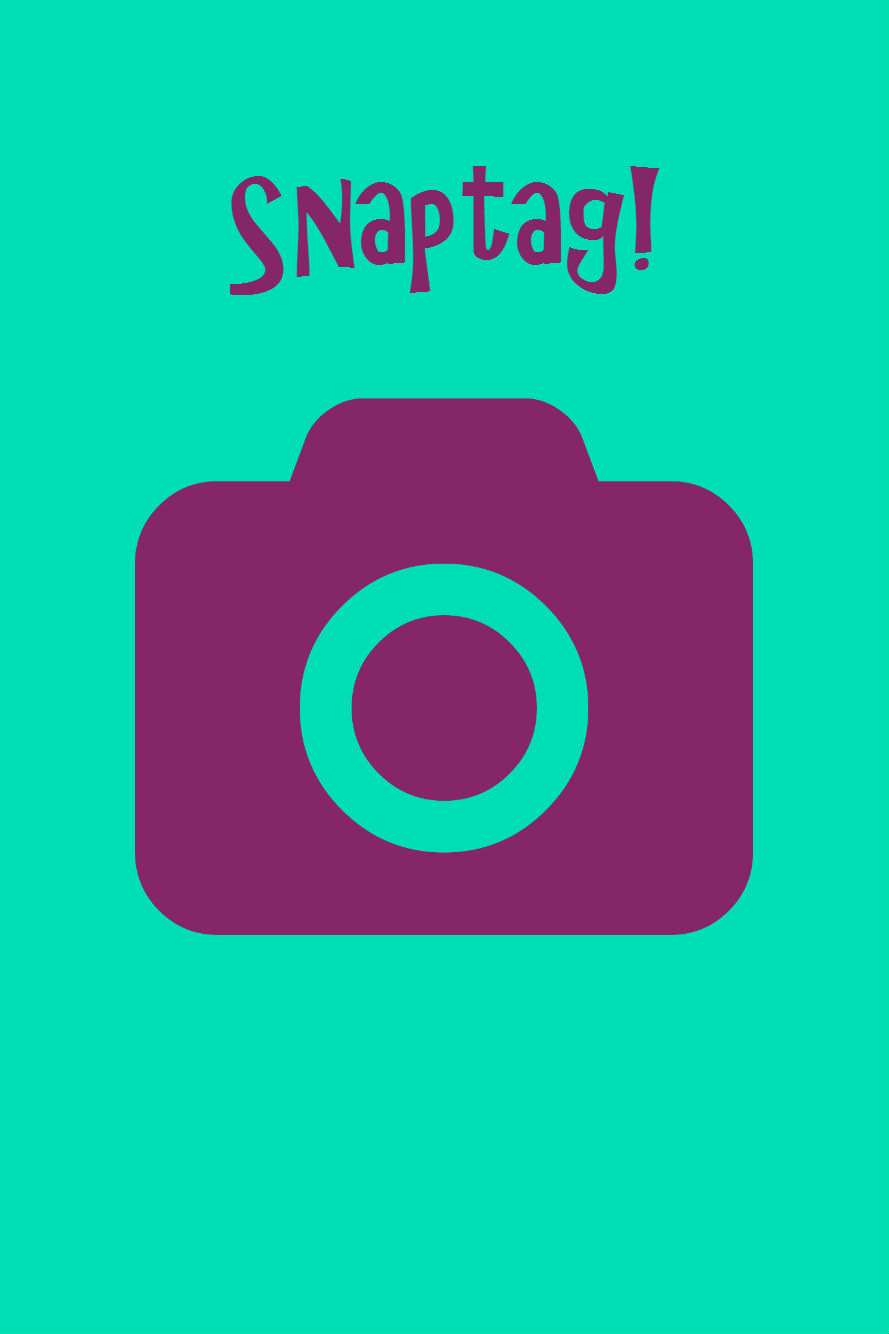
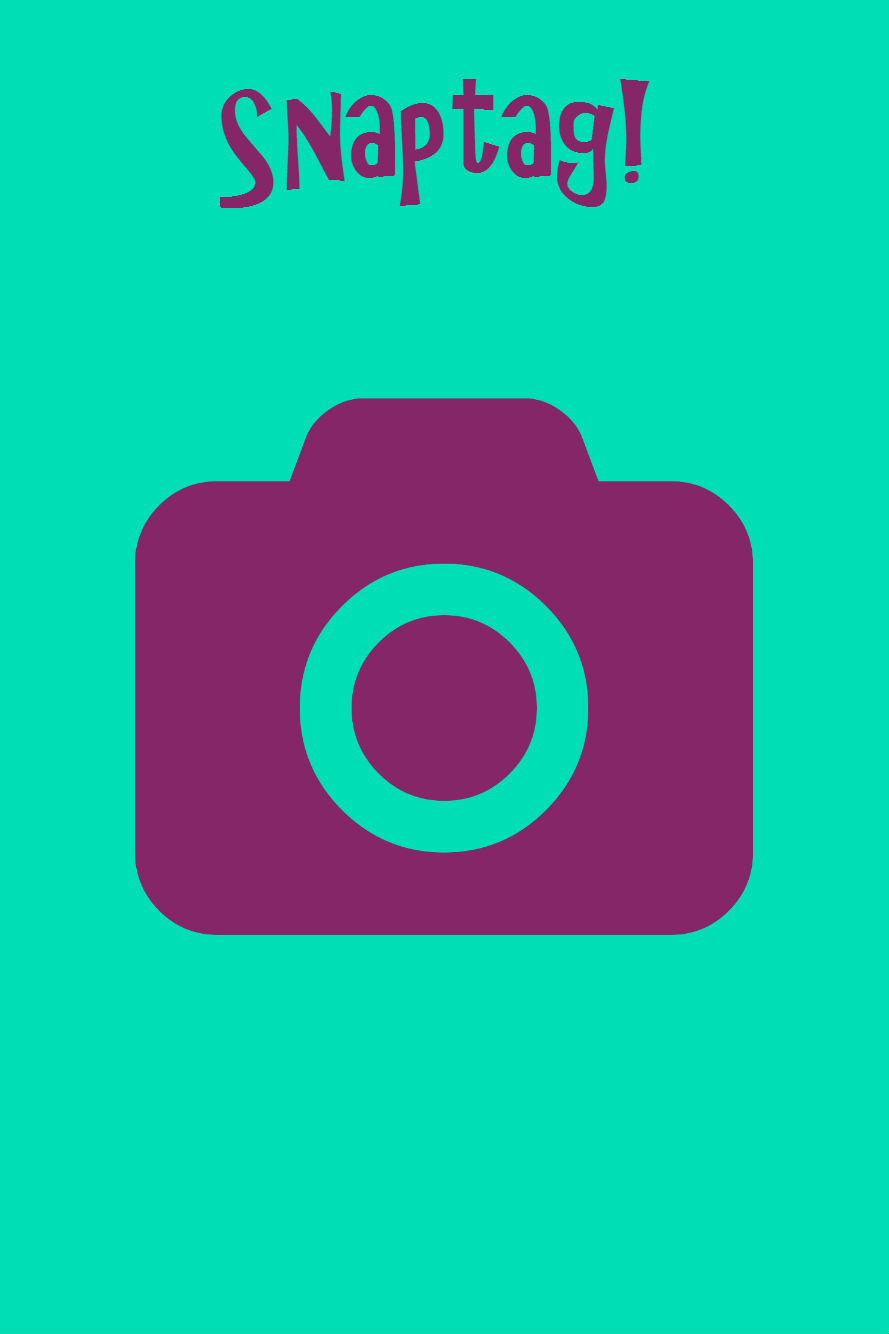
tweak bg's

Changed region(s): [[0.243, 0.0615, 0.7593, 0.2459]]

diff --git a/app/styles/app.less b/app/styles/app.less
@@ -57,6 +57,12 @@ h1, h3 {
     .has-background; 
   }
 
+  .name-panel {
+    .blank-panel;
+    background-position: top center;
+    background-image: url("../images/bg_name.jpg");
+  }
+
   .bg-panel1 {
     .blank-panel;
     background-image: url("../images/screen1.jpg");
